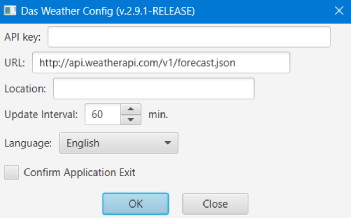
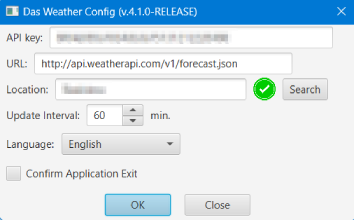
Updated README.md

diff --git a/README.md b/README.md
@@ -42,9 +42,13 @@
 ### 📜 Forecast Window<a id='ForecastWin'/>
 ![Screenshot](images/ForecastWindow.png) ![Screenshot](images/ForecastWindow_L.png)
 - Any forecast chart could be saved as PNG, JPEG, GIF or BMP file.
+- 
+### 📜 Location Window<a id='LocationWin'/>
+![Screenshot](images/LocationWindow.png)
+- Gives possibility to find location to show weather/forecast in.
 
 ### 🐞 Known issues
 - On Windows 11 after Hibernation the [Main window](#MainWin) may not be updated for couple minutes
-  - **_Resolving:_** Press **Update** button
+  - **_Resolving:_** Press **Update** button. It will be updated during 1-2 minutes.
 
 ###### _Made by -=:dAs:=-_
